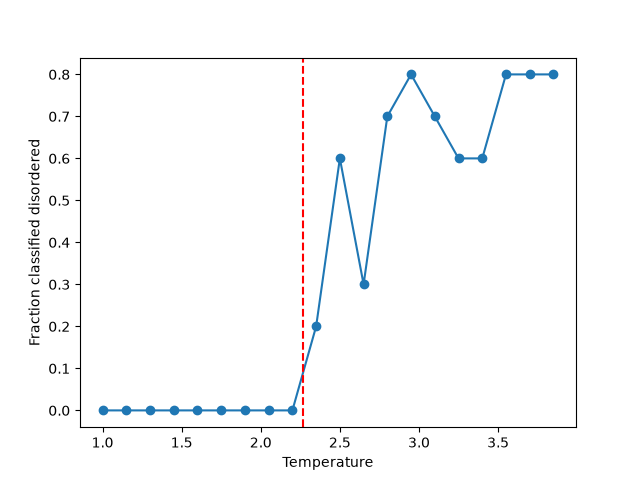
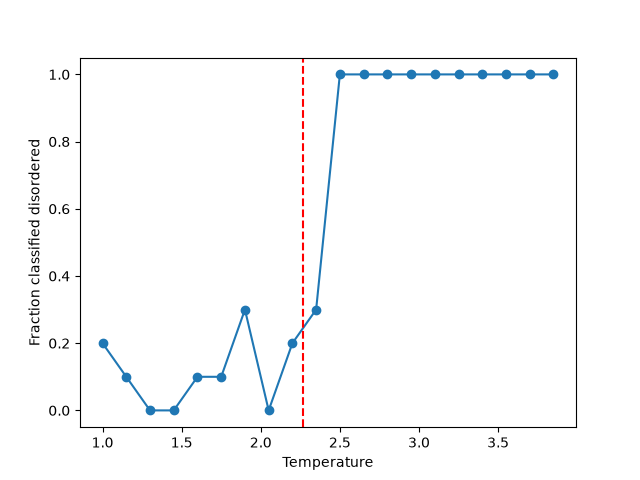
Add CNN classifier: sharper temperature transition detection, no regularisation

diff --git a/cnn.py b/cnn.py
@@ -1,0 +1,119 @@
+import numpy as np
+import torch
+import torch.nn as nn
+from sklearn.model_selection import train_test_split
+import matplotlib.pyplot as plt
+
+X = np.load('X_1000.npy')
+y = np.load('y_1000.npy')
+
+#converts np array into pytorch tensor
+#unsqueeze(1) adds a size-1 dimension at position 1. (N, 50, 50) -> (N, 1, 50, 50)
+#4D shape reads as : (how many grids, how many feature-layers per grid, height, width)
+#We make it 4D because CNN expects every 2D image to explicitly state how many color channels it has
+#Channel/Feature layer : how many stacked sheets make up one grid. A standard color photo has 3 (RGB), but this ising only has one (B&W)
+
+X_t = torch.tensor(X, dtype=torch.float32).unsqueeze(1) 
+y_t = torch.tensor(y, dtype=torch.long)
+
+print(X_t.shape, y_t.shape)
+
+#What happens inside the CNN pipeline
+
+#1. Conv Layer : Think of this as a tiny magnifiying glass that scans across the 50 x 50 grid.
+#If we use 16 filters, the CNN outputs 16 new feature layers per grid, where each layer highlights a different pattern it spotted.
+
+#2. ReLU : the non-linearity we already met (keep positives, strip out negatives, turn negative numbers into 0). 
+#Rmv weak noise so strong pattern matches pass forward, and lets the network learn complex boundaries
+
+#3. MaxPool : Downsampling. Shrinks the grid down (50x50 to 25x25) by looking at every 2x2 square and keeping only the biggest number.
+# It zooms out to keep the high contrasting/dramatic effects int ehg rid while throwing away tiny, unneeded details. (Such as there's a huge indicator of a hot grid/cold grid)
+
+#4. Flatten : Unrolling into a list : Takes all the shrunk down 2d squares and stretches them out into one long, flat line of numbers
+# Combines everything into 2 scores: ordered vs disordered. The bigger score wins
+
+# Shape Flow : 
+# (N,1,50,50) --conv--> (N,8,50,50) --relu--> (N,8,50,50)
+#             --pool--> (N,8,25,25) --flatten--> (N, 8*25*25=5000)
+#             --linear--> (N,2)
+
+class CNN(nn.Module):
+    def __init__(self):
+        super().__init__()
+        self.conv = nn.Conv2d(1,8,kernel_size=3, padding=1) # 1 channel in, 8 ouput channels/ filters, 3x3 filter, padding=1 adds a 1-pixel border
+        self.pool = nn.MaxPool2d(2)  #2x2 downsample
+        self.fc = nn.Linear(8 * 25 * 25, 2)  #flattened features -> 2 class scores (ordered vs disordered)
+        #nn.Linear takes in 2 args nn.Linear(in_features, out_features).
+        #our in_features = channels x pooled_height x pooled_width
+
+    def forward(self, x):
+        x = self.conv(x)  # (N,1,50,50) -> (N,8,50,50)
+        x = torch.relu(x) # non-linearity
+        x = self.pool(x)  # -> (N,8,25,25)
+        x = x.flatten(1)  # -> (N,5000) (flatten everything except the batch dim)
+        x = self.fc(x)    # -> (N,2)
+        return x 
+
+#model = CNN()
+#out = model(X_t[:4]) #feed the first 4 grids
+#print (out.shape) # output : torch.Size([4, 2]), meaning our output is 4 rows, 2 cols. Rows = grid we fed. Cols = 2 class scores for each grid
+
+# The training loop (3 main parts)
+
+#1. Loss function : one number measuring how wrong the model's predictions are. CrossEntropyLoss(). High = badly. low = conf
+
+#2. Optimiser : the thing that adjusts the weights to reduce the loss. Adam is a smart version of gradient descent. 
+# We hand it to model.parameters() so it knows which weights to tune
+
+#3. Loop : repeat many times. Reduce the loss, optimise, and nudge weights
+
+X_train, X_test, y_train, y_test = train_test_split(
+    X_t, y_t, test_size=0.2, random_state=0
+)
+
+model = CNN()
+loss_fn = nn.CrossEntropyLoss()
+optimiser = torch.optim.Adam(model.parameters(), lr=0.001) #Learning rate, how big the nudge is
+
+for epoch in range(50): #One pass = one epoch, one nudge over the whole training set. 50 nudges here.
+    out = model(X_train) #forward : predict(logits)
+    loss = loss_fn(out, y_train) #measure how wrong
+
+    optimiser.zero_grad() #clear the old gradients (Pytorch accumuldates them by default, so we reset each pass or they pile up)
+    loss.backward() #Backpropagation. Calculus that works out for each weight which direction to nudge it to lower the loss.
+    optimiser.step() #Apply the nudge. Move every weight a small step in direction backward() found.
+
+    print(epoch, loss.item()) #Pull the loss out as plain number so we can see the traction
+
+# evaluate on held-out grids
+with torch.no_grad(): 
+    pred = model(X_test).argmax(1) #pick the bigger of the 2 scores -> 0 or 1 (disordered or ordered)
+    acc = (pred == y_test).float().mean()
+    print("test accuracy:", acc.item())
+
+#Over 50 iterations, we achieved test accuracy = 1.0
+
+# Perform prediction on X_sweep.npy
+# We want to know "where does the model think the transition is?""
+X_sweep = np.load('X_sweep.npy')
+temps = np.load('temps.npy')
+
+#prep for the CNN : add the channel dimension, exactly like the training data
+X_sweep_t = torch.tensor(X_sweep, dtype=torch.float32).unsqueeze(1)
+
+with torch.no_grad():
+    preds = model(X_sweep_t).argmax(1).numpy() #0 or 1 per grid, as a numpy array
+
+#group by temperature
+unique_temps = np.unique(temps)
+fraction_disordered = []
+for t in unique_temps:
+    mask = (temps == t)
+    fraction_disordered.append(preds[mask].mean())
+
+plt.plot(unique_temps, fraction_disordered, marker='o')
+plt.axvline(2.27, linestyle='--', color='red')
+plt.xlabel('Temperature')
+plt.ylabel('Fraction classified disordered')
+plt.title('CNN phase transition detection')
+plt.show()

diff --git a/classifier.py b/classifier.py
@@ -4,10 +4,10 @@ from sklearn.model_selection import train_test_split
 from sklearn.linear_model import LogisticRegression
 from sklearn.neural_network import MLPClassifier
 
-X = np.load('X.npy')
-y = np.load('y.npy')
+X = np.load('X_1000.npy')
+y = np.load('y_1000.npy')
 
-X_flat = X.reshape(200,-1) # reshape lets logistic reg read 2d grids by making grids lines of numbers
+X_flat = X.reshape(len(X),-1) # reshape lets logistic reg read 2d grids by making grids lines of numbers
 
 X_train, X_test, y_train, y_test = train_test_split(
     X_flat, y, test_size=0.2, random_state=0
@@ -49,7 +49,7 @@ Conclusion :
 #Implement Neural network, 200 datasets
 #What's different? |x| = ReLU(x) + ReLU(-x); RELU(-x) keeps the negative side flipped up
 
-nn = MLPClassifier(hidden_layer_sizes=(16,), alpha=1, max_iter=1000, random_state=0) #one hidden layer with 16 neurons
+nn = MLPClassifier(hidden_layer_sizes=(16,), alpha=10, max_iter=1000, random_state=0) #one hidden layer with 16 neurons
 nn.fit(X_train, y_train)
 print("neural net:", nn.score(X_test, y_test))
 
@@ -64,18 +64,23 @@ print("nn TEST:", nn.score(X_test, y_test)) #Output (without alpha): test is 0.7
 #When alpha=1, nn TEST = 0.8
 #When alpha=10, nn TEST = 0.975
 
-#L2 Penalty worked
+#L2 Penalty improved the test results
 
 #Now let's test larger datasets
 #For 1000 datasets
-#When alpha=0.0001, nn TEST = 0.825
-#When alpha=1, nn TEST = 0.875
-#When alpha=10, nn TEST = 1.0
+#When alpha=0.0001, nn TEST = 0.82
+#When alpha=1, nn TEST = 0.915
+#When alpha=10, nn TEST = 0.975
 
 #With a big enough dataset, the model clearly learned to tell cold grids from clearly hot ones.
-#As it could tell the magnetisation gap was enormous (0.71 vs 0.047)
+#The dataset is learnable because the two phases are genuinely different
+#|magnetisation| ~0.71 (ordered) vs ~0.047 (disordered) on the 200-set
+
+#Now the 1000-set isn't just bigger, it's an easier dataset, its ordered grids are more sharply ordered
+#|mag| (0.849 vs 0.714). Size and difficulty moved together, so "more data heped" is not clearly proven.
 
 #Now let's test what does the model do with the questions it was never shown?
+#We will probe the frozen model on temperatures it never trained on, including the "warm" temperature.
 #Load the 10 grids at each temperature from 1.0 to 4.0. Feed it to the Neural network model to gauge results
 
 X_sweep = np.load("X_sweep.npy")

diff --git a/ising.py b/ising.py
@@ -158,11 +158,11 @@ for step in range(100):
 """
 Generate labelled datasets, build a classifier
 """
-"""
+
 
 X = []
 y = []
-n_samples = 100  #Test in small amounts first, scale up once it works
+n_samples = 500  #Test in small amounts first, scale up once it works
  
 for i in range(n_samples):
     #cold grids
@@ -185,7 +185,7 @@ for i in range(n_samples):
     X.append(grid)
     y.append(1) #unordered, hot grids, labelled 1
 
-"""
+
 #print(len(X))
 #print(len(y))
 
@@ -195,13 +195,13 @@ for i in range(n_samples):
 
 
 #Save 1000 grids 
-#np.save('X_1000.npy', np.array(X))
-#np.save('y_1000.npy', np.array(y))
+np.save('X_1000.npy', np.array(X))
+np.save('y_1000.npy', np.array(y))
 
 #Now we want to test what does the model do with the questions it was never shown?
 #So we generate datasets, consists of grids that are swept on different temperatures
 #There are 10 grids per temperature, swept from temp 1.0-4.0, and we feed the Neural network we built previously
-
+"""
 X_sweep = []
 temps = []
 grids_per_temp = 10
@@ -217,3 +217,4 @@ for t in np.arange(1.0,4.0,0.15):
 print(len(X_sweep))
 np.save("X_sweep.npy", np.array(X_sweep))
 np.save("temps.npy", np.array(temps))
+"""
